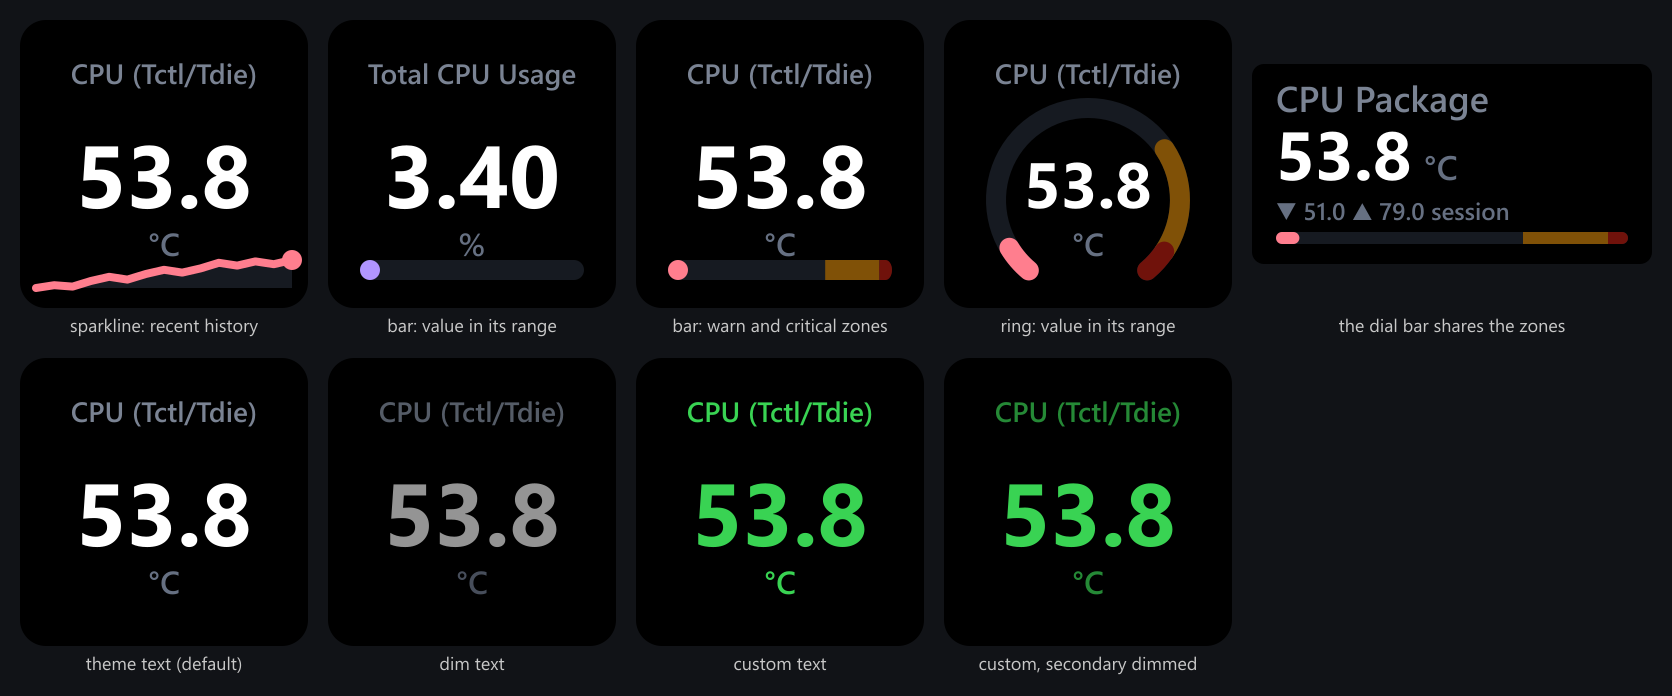
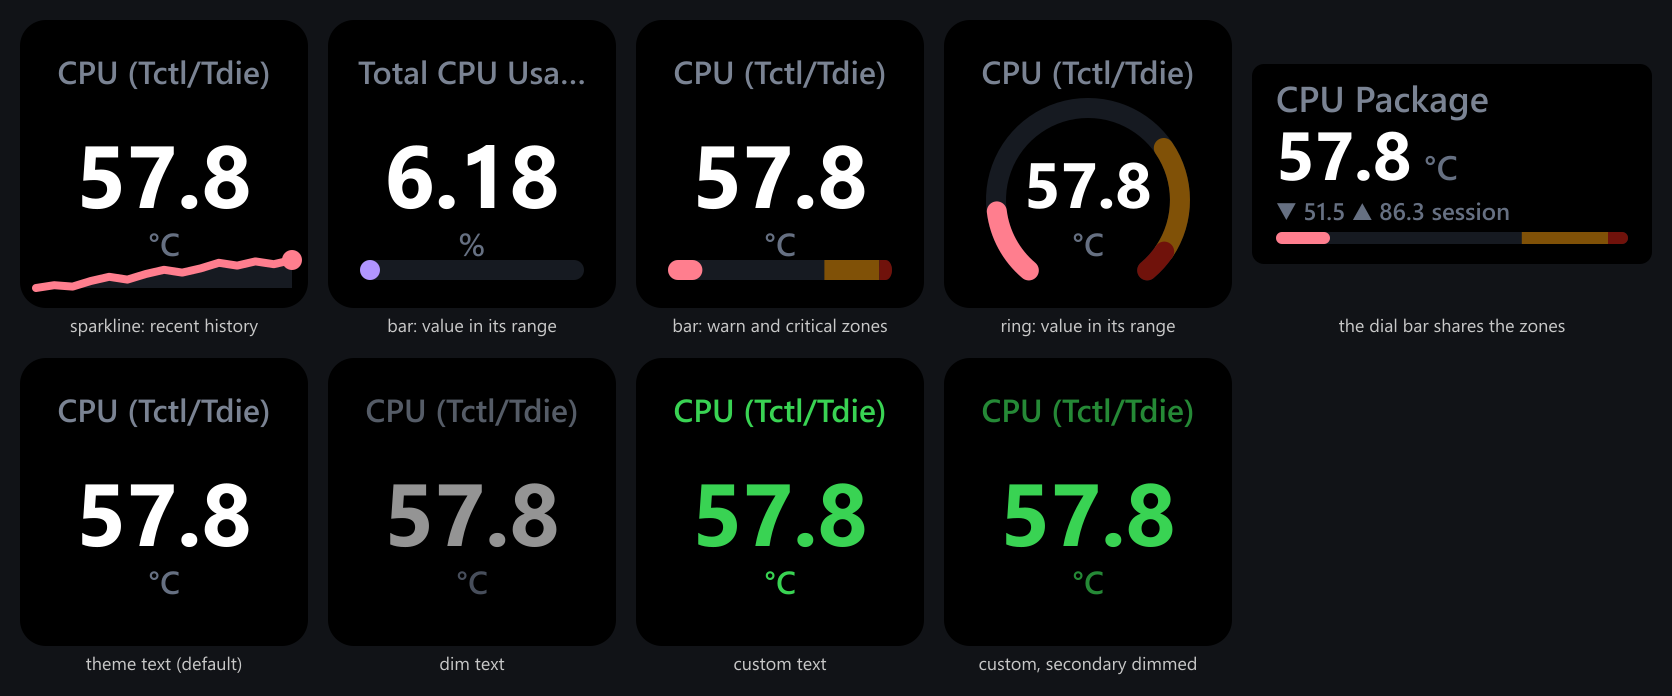
fix(key): single-label ladder floors at the pre-adaptive 16px
Validated against the real deck: joining every configured Sensor
Reading key against live HWiNFO showed the 14px floor made 351 of 563
key instances RENDER SMALLER than 1.3.0 (typical default names like
'Drive Temperature' sit just past the 16px fit window), the opposite
of what issue #3 asked for. The ladder now floors at the old fixed 16:
sizes only ever grow, and a name too wide for 16 ellipsizes there,
pixel-safe, where the old 16-char rule overflowed the lens band. The
badge ladder floors at 16 the same way, and parens and the slash join
the narrow glyph class at their real ~4.7px advance, so HWiNFO's own
'CPU (Tctl/Tdie)' renders whole at 16 exactly as before. After the
change: 168 instances bigger, 395 identical, zero smaller.

diff --git a/test/key-renderer.test.ts b/test/key-renderer.test.ts
@@ -98,9 +98,17 @@ describe("label fitting and badge collision", () => {
 		assert.match(svg, /<text x="72" y="32" text-anchor="middle" [^>]*font-size="20" font-weight="600"[^>]*>CCD1</);
 	});
 
-	it("a long label steps down the ladder before it ellipsizes", () => {
+	it("the ladder floors at the pre-adaptive 16: a wide name is cut there, never drawn smaller", () => {
+		// "Total CPU Usage" rendered whole at 16 under the old 16-char rule by
+		// overflowing the lens-safe band; the pixel fit keeps the SIZE and
+		// trades the overflow for an ellipsis.
 		const svg = render({ label: "Total CPU Usage" });
-		assert.match(svg, /<text x="72" y="32" [^>]*font-size="14"[^>]*>Total CPU Usage</);
+		assert.match(svg, /<text x="72" y="32" [^>]*font-size="16"[^>]*>Total CPU Usa…</);
+	});
+
+	it("a parenthesized HWiNFO name renders whole at 16 (narrow-punct glyph class)", () => {
+		const svg = render({ label: "CPU (Tctl/Tdie)" });
+		assert.match(svg, /<text x="72" y="32" [^>]*font-size="16"[^>]*>CPU \(Tctl\/Tdie\)</);
 	});
 
 	it("a mid-width label lands on the ladder's interior 16px step", () => {
@@ -116,23 +124,23 @@ describe("label fitting and badge collision", () => {
 	});
 
 
-	it("past the 14px floor the label ellipsizes at the widest fitting prefix", () => {
+	it("past the floor the label ellipsizes at the widest fitting prefix", () => {
 		const svg = render({ label: "Virtual Memory Committed" });
-		assert.match(svg, /font-size="14"[^>]*>Virtual Memory…</);
+		assert.match(svg, /font-size="16"[^>]*>Virtual Memo…</);
 	});
 
 	it("a wide 16-char label no longer overflows the 120px band: it ellipsizes", () => {
 		// Under the flat 16-char rule this rendered ~145px wide at 16px, past
 		// the lens-safe span; the pixel-aware fit keeps it inside the budget.
 		const svg = render({ label: "0123456789ABCDEF" });
-		assert.match(svg, /font-size="14"[^>]*>0123456789ABC…</);
+		assert.match(svg, /font-size="16"[^>]*>0123456789AB…</);
 	});
 
 	it("badge switches the label to left x=12, pixel-fit to the x=92 clip", () => {
 		const svg = render({ label: "Virtual Memory Committed", statBadge: "AVG" });
-		const label = textElement(svg, "Virtual M…");
+		const label = textElement(svg, "Virtual…");
 		assert.match(label, /x="12" y="32" text-anchor="start"/);
-		assert.match(label, /font-size="14"/);
+		assert.match(label, /font-size="16"/);
 		// The 80px clip is an opaque bg rect between label and badge — a solid
 		// fill, the only clipping primitive proven on the Stream Deck engine.
 		const mask = svg.indexOf(`<rect x="92" y="14" width="52" height="24" fill="${VOID.bg}"/>`);

diff --git a/src/ui/key-renderer.ts b/src/ui/key-renderer.ts
@@ -73,14 +73,16 @@ export function ringValueFontSize(text: string): number {
 
 /** Label fitting: a size ladder against the pixel budget the label band
  * actually owns, so a short label ("CCD1") renders large and a long one
- * ("Virtual Memory Committed") steps down before ellipsizing at the floor.
- * Centered labels own x=12..132 (the lens-safe span both dual rows and the
- * badge mask already respect); a badge-sharing label owns x=12 to the badge
- * mask at x=92. Both ladders floor at 14, above the 12 px legibility floor. */
+ * ("Virtual Memory Committed") ellipsizes at the floor. Centered labels own
+ * x=12..132 (the lens-safe span both dual rows and the badge mask already
+ * respect); a badge-sharing label owns x=12 to the badge mask at x=92. Both
+ * ladders FLOOR at the pre-adaptive fixed 16: sizes only ever grow (the
+ * issue #3 ask), never shrink an existing profile's label — a name too wide
+ * for 16 is cut there, pixel-safe, where the old 16-char rule overflowed. */
 const LABEL_BUDGET = 120;
-const LABEL_SIZES = [20, 18, 16, 14] as const;
+const LABEL_SIZES = [20, 18, 16] as const;
 const LABEL_BUDGET_WITH_BADGE = 80;
-const LABEL_SIZES_WITH_BADGE = [18, 16, 14] as const;
+const LABEL_SIZES_WITH_BADGE = [18, 16] as const;
 /** Estimation slack for every label fit: the estimator cannot ask the engine
  * for real glyph metrics, so a few px stay unspent on purpose. */
 const LABEL_FIT_SLACK = 4;

diff --git a/src/ui/format.ts b/src/ui/format.ts
@@ -273,6 +273,12 @@ function keyGlyphWidth12(ch: string): number {
 	if (ch === "i" || ch === "j" || ch === "l" || ch === "." || ch === "," || ch === "'" || ch === ":" || ch === ";" || ch === "!" || ch === "|") {
 		return 3.2;
 	}
+	// Parens and the slash are narrow in Segoe UI (~4.7 px at 12): HWiNFO's
+	// own names use them constantly ("CPU (Tctl/Tdie)"), and pricing them at
+	// the 7 px default costs those names a whole ladder step.
+	if (ch === "(" || ch === ")" || ch === "/") {
+		return 4.7;
+	}
 	if (ch >= "0" && ch <= "9") {
 		return 6.3;
 	}